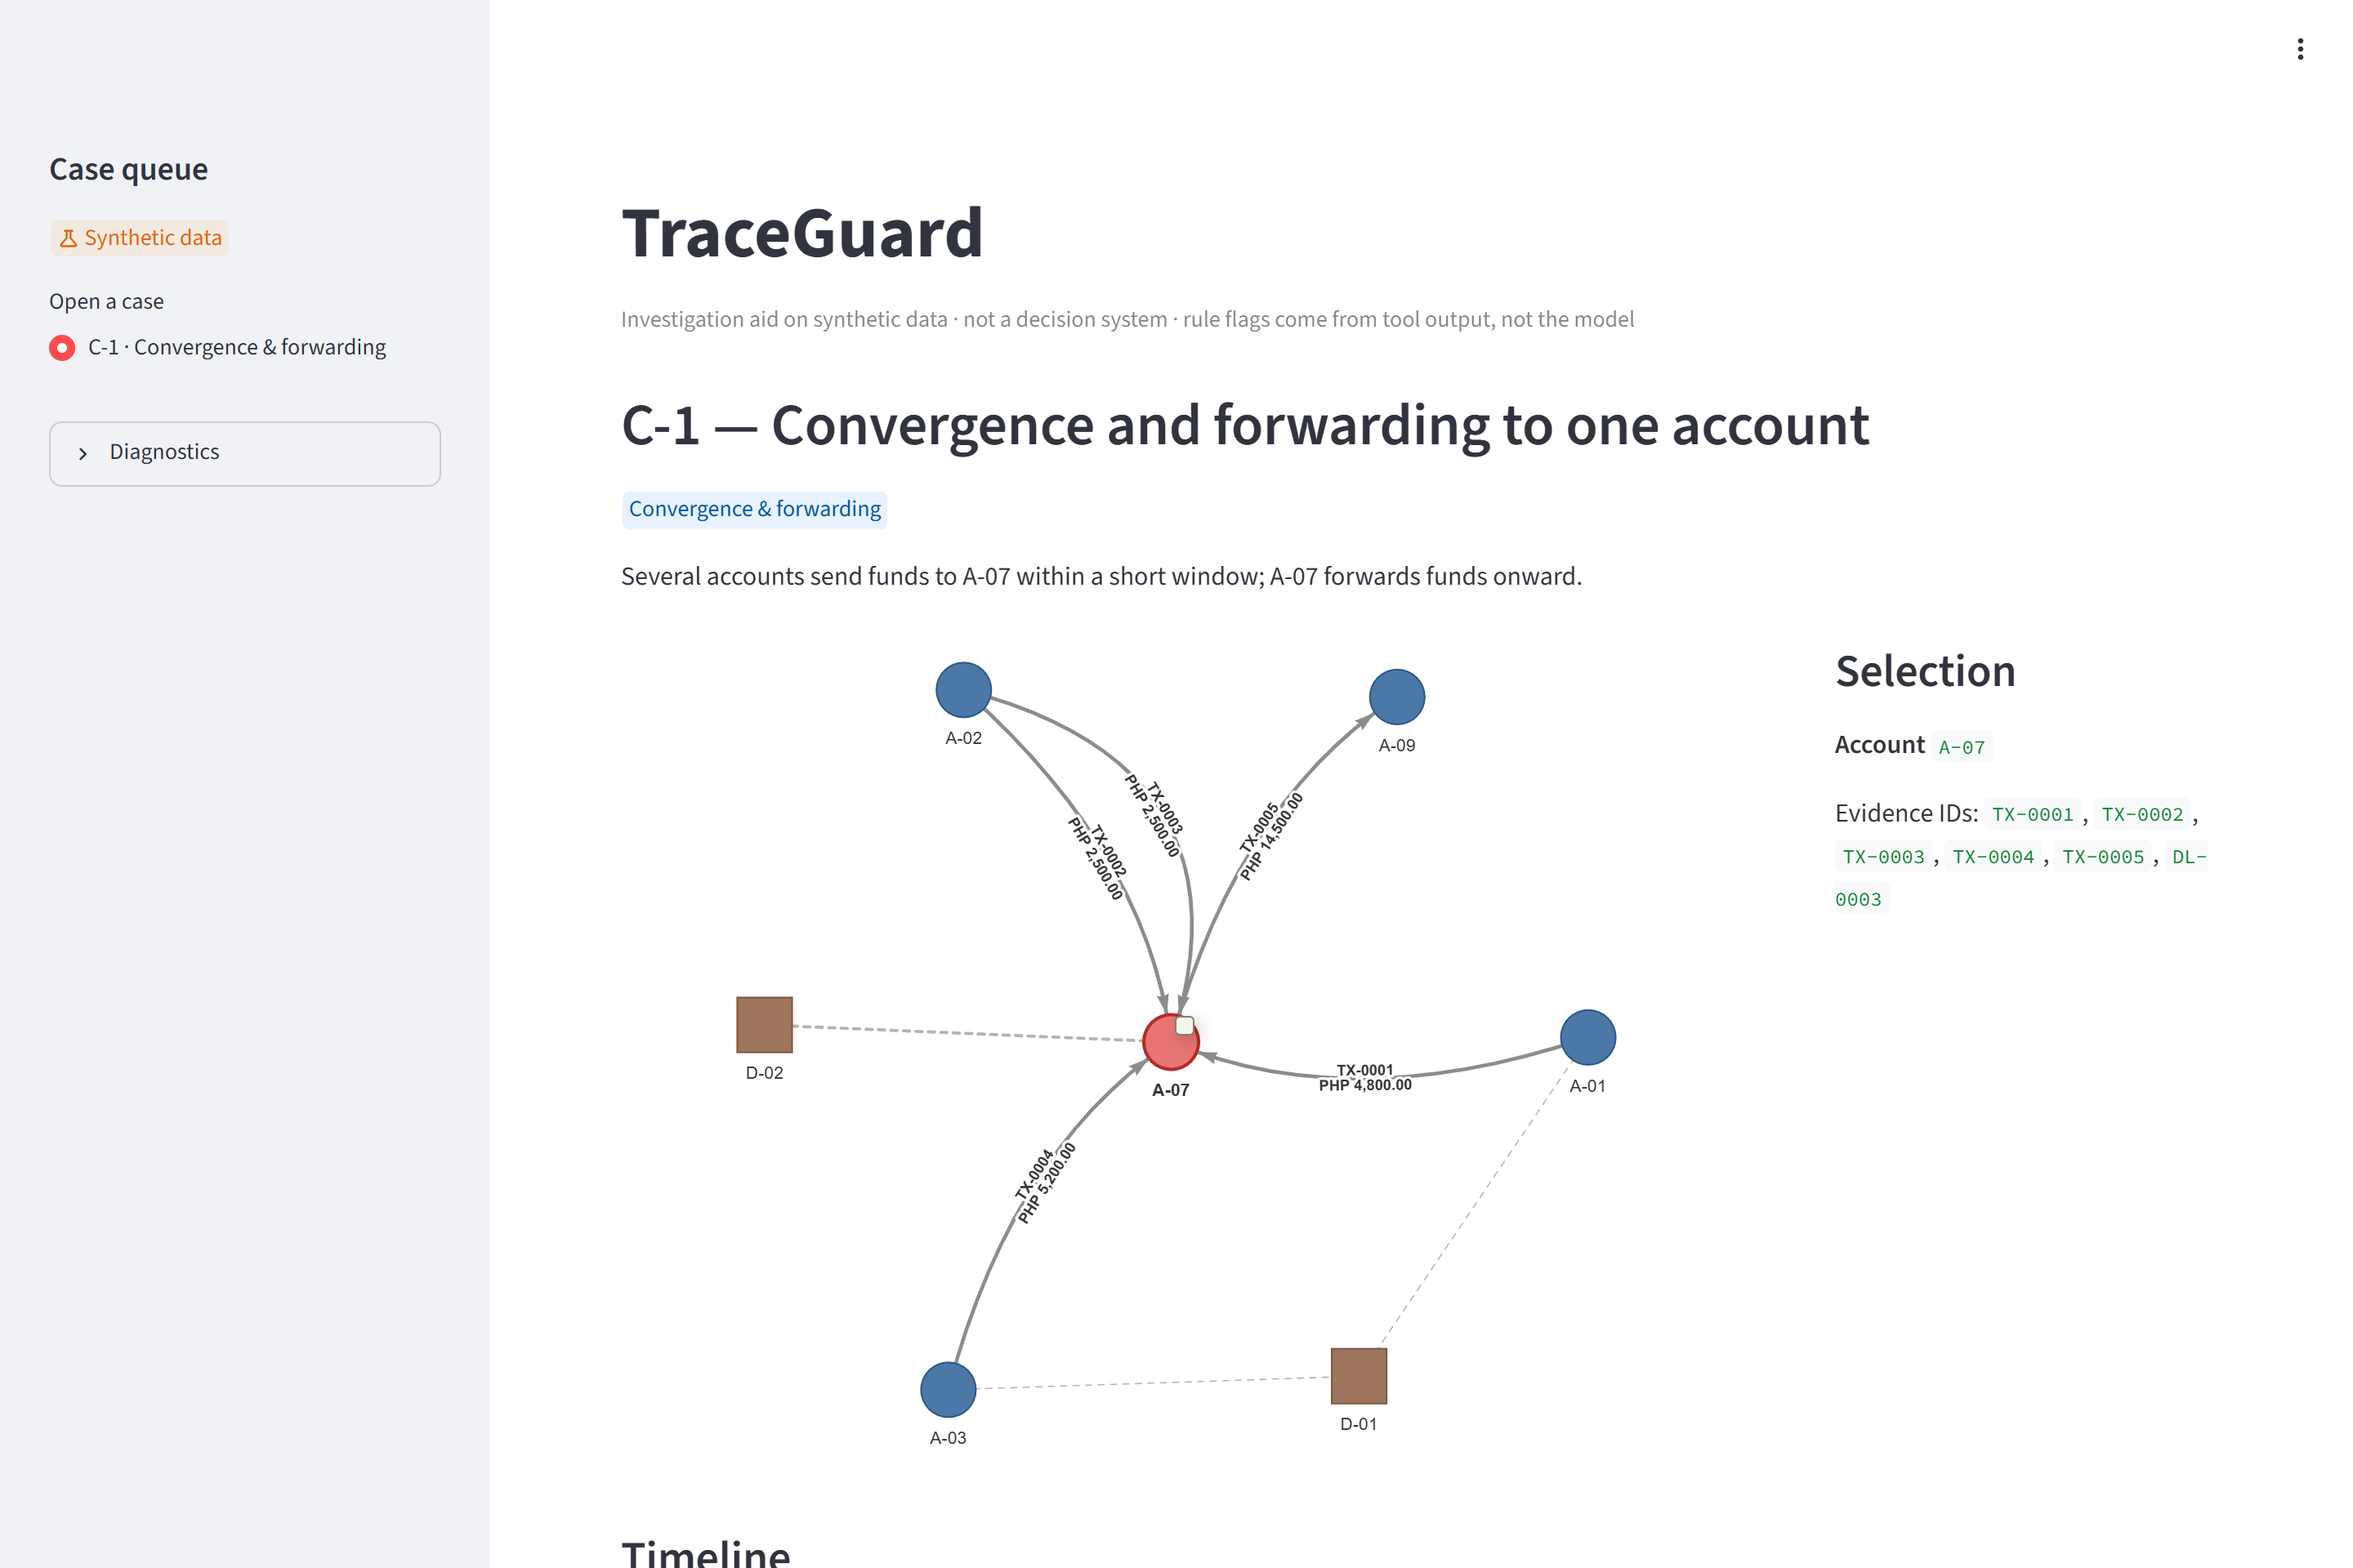
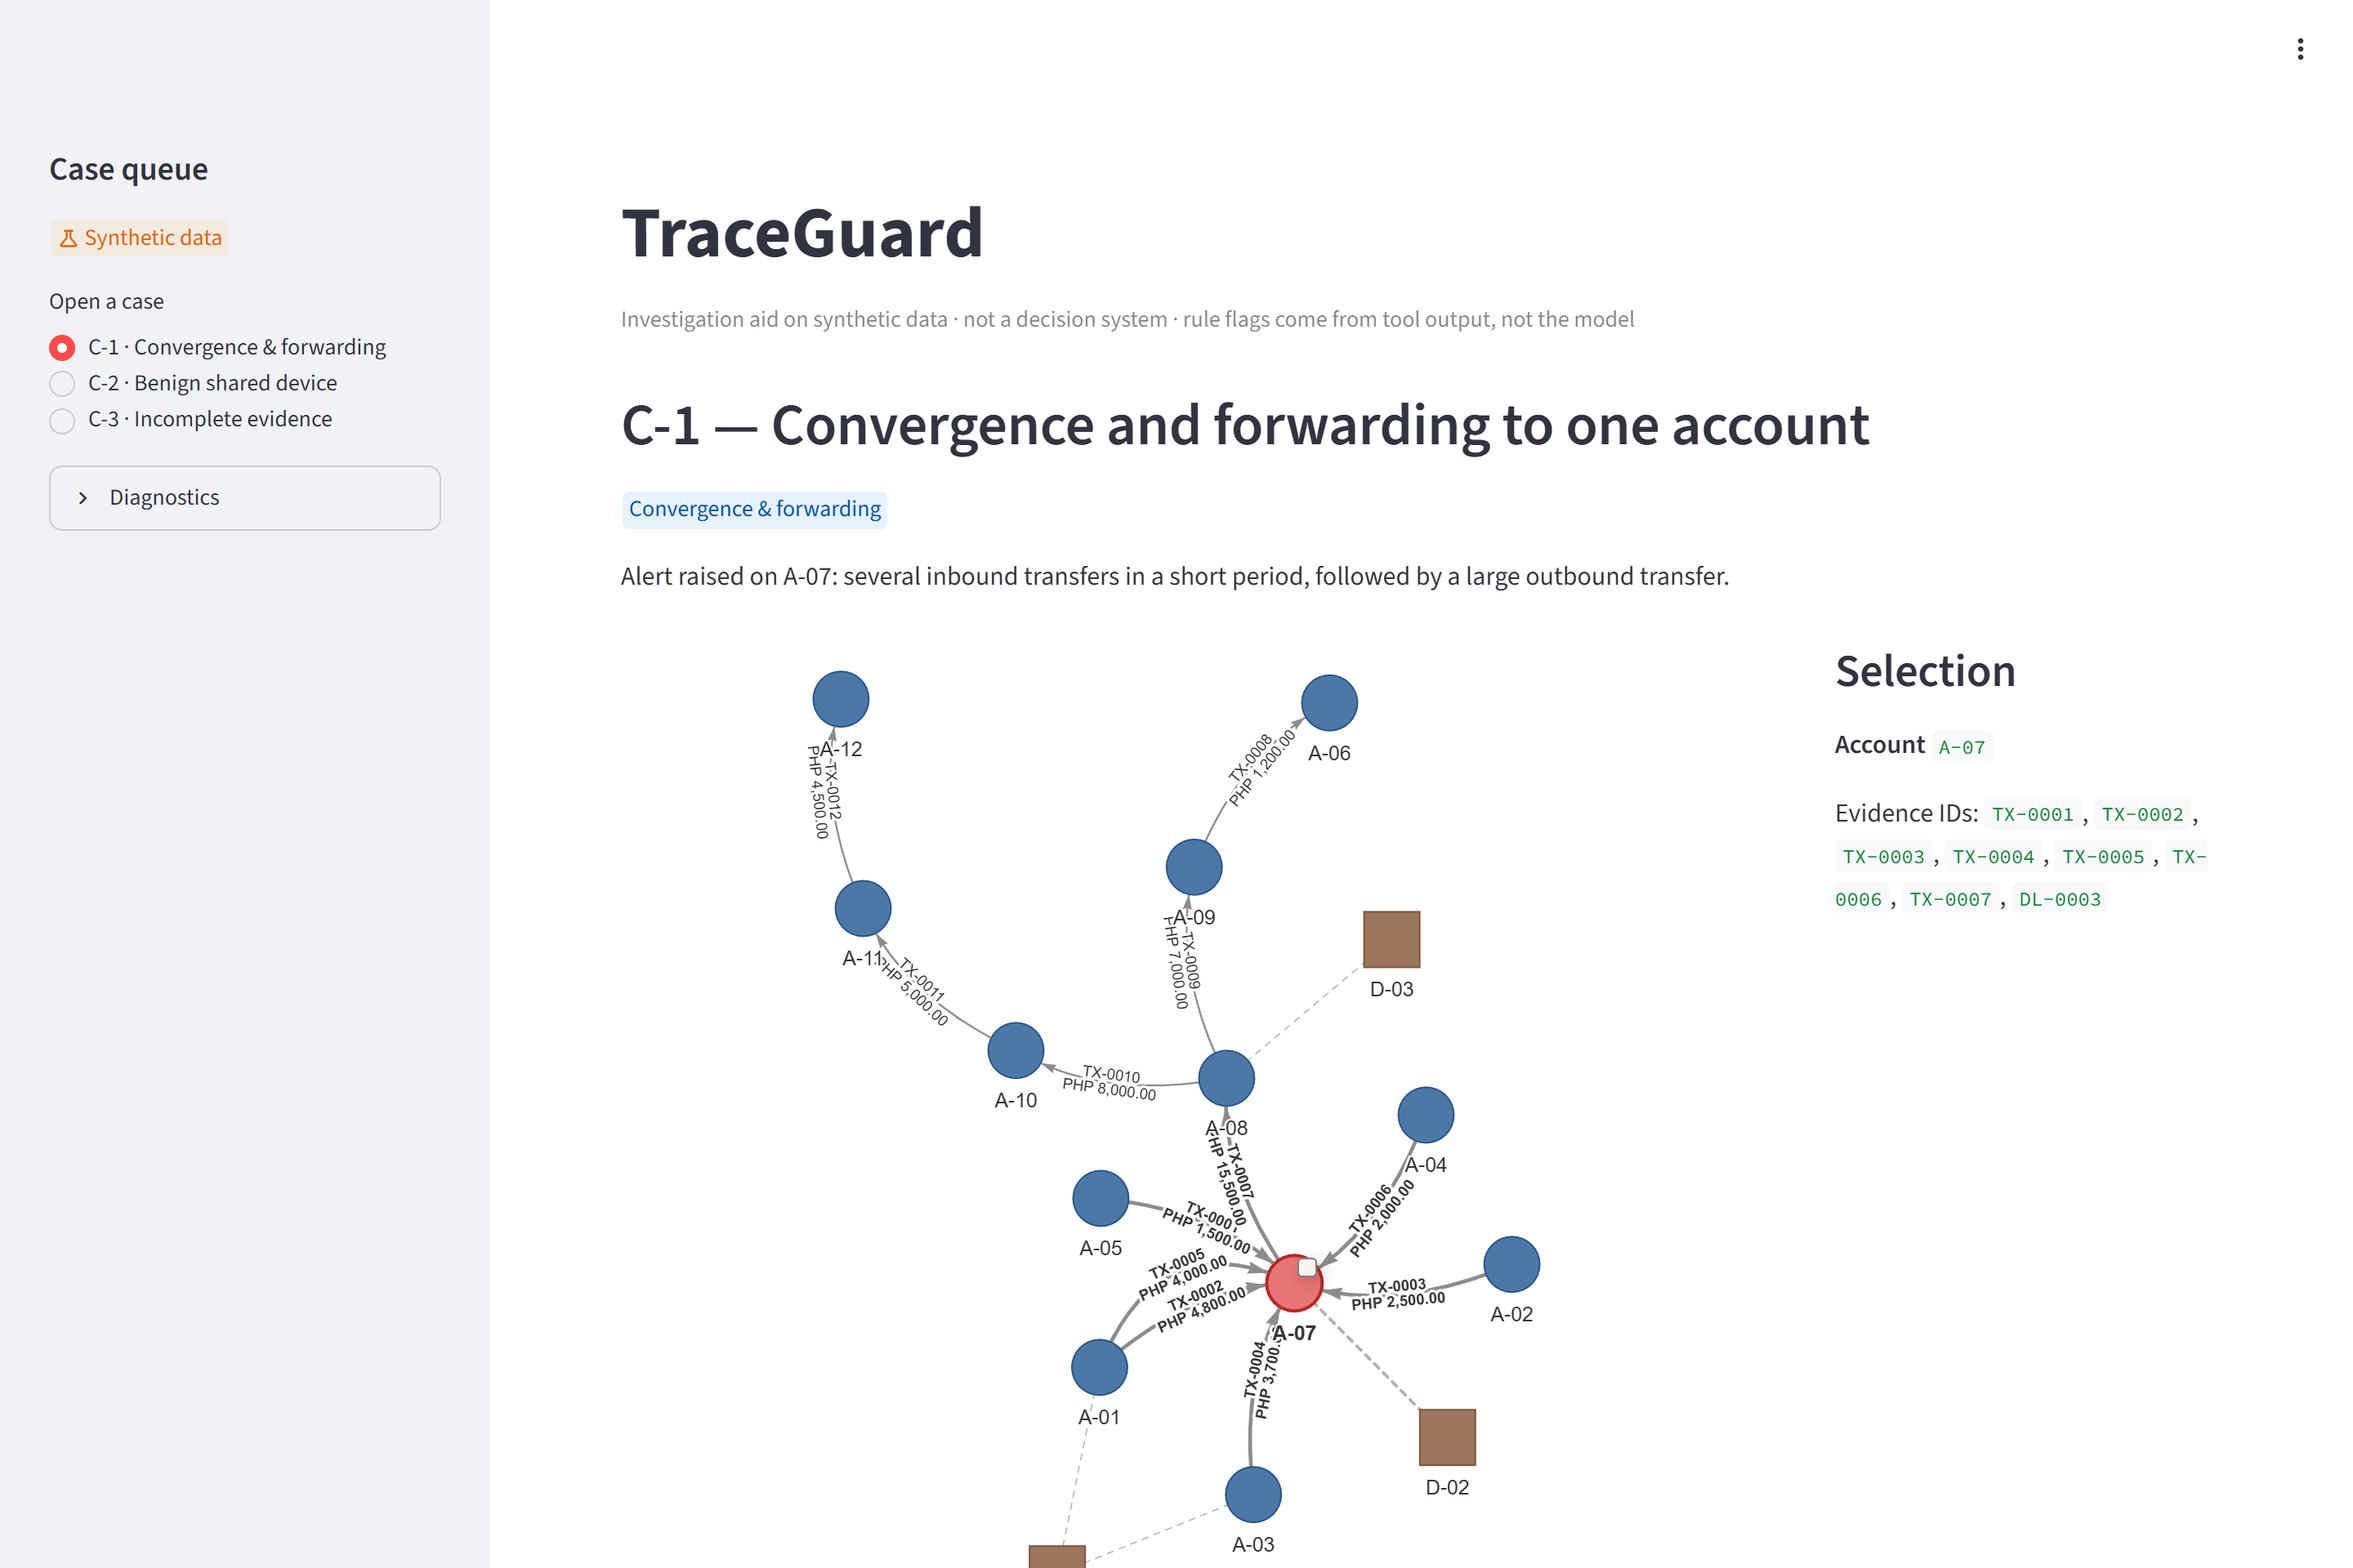
docs(TASK-007): deck screenshots from live C-1 on real graph evidence with contrasts

diff --git a/submission/screenshots/README.md b/submission/screenshots/README.md
@@ -2,19 +2,19 @@
 
 | File | Slide | Shows |
 |---|---|---|
-| `slide2-c1-graph.png` | 2 | C-1 graph with A-07 selected and its evidence IDs in the selection panel |
-| `slide3-brief.png` | 3 | Live AI output label, model and run time, rule flags with thresholds, first observation with citation chips |
-| `slide3-citation-records.png` | 3 | Counterevidence, unknowns (data boundary), suggested checks, and the records cited by `RULE-FWD-01` |
-| `slide3-graph-highlight.png` | 3 | TX-0004 and TX-0005 highlighted on the graph and starred in the timeline after clicking `RULE-FWD-01` |
+| `slide2-c1-graph.png` | 2 | C-1 graph, with A-07 selected and its evidence IDs in the selection panel |
+| `slide3-brief.png` | 3 | The "Live AI output" label, model and run time, deterministic rule flags with thresholds, and the deterministic contrast with its citation chips |
+| `slide3-citation-records.png` | 3 | Counterevidence quoting the tool contrasts; unknowns (data boundary and depth limit); suggested checks; the records cited by `RULE-FWD-01` |
+| `slide3-graph-highlight.png` | 3 | The records matched by `RULE-FWD-01`, highlighted on the graph and starred in the timeline |
 
-**How they were captured:** on 2026-10-17, from the public Cloud Run URL
-(`https://traceguard-343683630064.asia-southeast1.run.app`, revision 4). Capture used a fresh headless
-Edge profile with no sign-in, at 1440×960 and 2× scale. Each brief is a **real** `gemini-3.5-flash` run
-in `asia-southeast1` that passed validation on the first attempt.
+**Captured:** 2026-10-18, from the public Cloud Run URL
+(`https://traceguard-343683630064.asia-southeast1.run.app`, revision `traceguard-00009-52w`).
 
-**Rule (BR-006):** never replace these with screenshots from local fake-model test runs. Those runs
-display "Live AI output" for scripted text.
+**Setup:**
+- a fresh headless Edge profile with no sign-in, at 1440×960 and 2× scale;
+- real dataset C-1 (TASK-002), with evidence from the graph tools (TASK-003, including the contrasts);
+- a real `gemini-3.5-flash` brief at LOW thinking, from `asia-southeast1`, that passed validation on the first attempt.
 
-**Interim:** these show C-1 on the **hand-derived sample evidence**. That is labelled on screen as
-"sample evidence … not yet computed by graph tools". Retake all four after the TASK-003 graph tools
-are wired in, so the deck shows computed evidence.
+**Rule (BR-006):** never replace these with screenshots from local fake-model test runs. Those runs label scripted text as "Live AI output".
+
+**Retake** if the UI, the dataset, or the prompt changes before submission. Rerun the same capture script against the live URL.
